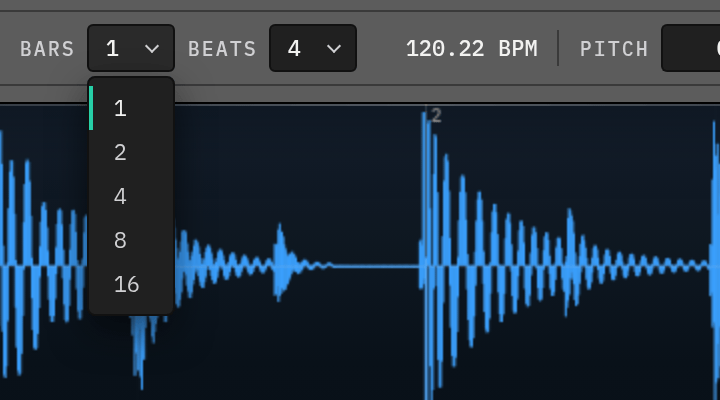
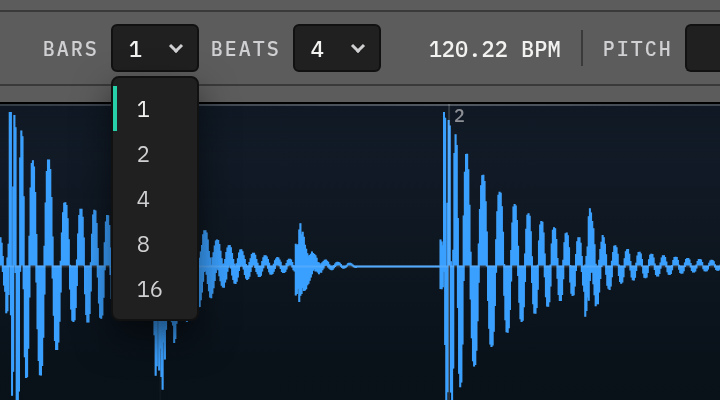
Release 1.2.0: new screenshots, README and version
- Version 1.2.0 in package.json, manifest.json and the editor panel.
- Retake every README screenshot with the Clear button, Loop region
  rendering and a stretch to 100 BPM.
- Audio outside the rendered range is drawn dimmed instead of flattened
  by the fade envelope, so excluded audio no longer looks deleted.
- README: macOS and Windows, Cancel on long renders.

diff --git a/src/webview/waveform.js b/src/webview/waveform.js
@@ -522,7 +522,7 @@ class WaveformCanvas {
     const startPeak = Math.floor(this.scrollX / pxPerPeak);
     const endPeak = Math.min(peakCount, Math.ceil((this.scrollX + width) / pxPerPeak));
 
-    // Faded (outside trim)
+    // Dimmed (outside the rendered range)
     ctx.globalAlpha = 0.55;
     ctx.strokeStyle = SCREEN.traceOutside;
     ctx.lineWidth = 1;
@@ -541,14 +541,14 @@ class WaveformCanvas {
     }
     ctx.stroke();
 
-    // Bright (inside trim)
+    // Bright (inside the rendered range: the loop while Loop is on, else the selection)
     ctx.globalAlpha = 1;
     ctx.strokeStyle = SCREEN.trace;
     ctx.beginPath();
     for (let i = startPeak; i < endPeak; i++) {
       const x = i * pxPerPeak - this.scrollX;
       const t = this._xToTime(x);
-      if (t < this.trimStart || t > this.trimEnd) continue;
+      if (t < this.renderStart || t > this.renderEnd) continue;
       const env = this._envelopeAt(t);
       const minVal = chPeaks[i * 2] * this.gainLinear * env;
       const maxVal = chPeaks[i * 2 + 1] * this.gainLinear * env;
@@ -633,7 +633,10 @@ class WaveformCanvas {
 
   // Combined fade envelope (fade-in × fade-out) at time t; 1 when no fades.
   // Applied to the drawn waveform amplitude so the taper is visible directly.
+  // Audio outside the rendered range is left as is (it is drawn dimmed), so
+  // nothing looks deleted that is only excluded.
   _envelopeAt(t) {
+    if (t < this.renderStart || t > this.renderEnd) return 1;
     let g = 1;
     if (this.fadeIn.len > 0) g *= this._fadeGainAt('in', t);
     if (this.fadeOut.len > 0) g *= this._fadeGainAt('out', t);

diff --git a/src/webview/index.html b/src/webview/index.html
@@ -687,12 +687,12 @@
   </div>
 
   <div id="controls">
-    <span id="logo" aria-label="Clip Tool v1.1.0">
+    <span id="logo" aria-label="Clip Tool v1.2.0">
       <!-- Kerf mark: kerf-audio brand pack, kerf-audio-mark-on-grey.svg -->
       <svg class="logo-mark" xmlns="http://www.w3.org/2000/svg" viewBox="0.00 0.00 258.19 340.00" aria-hidden="true"><g fill="#f2f2f0"><polygon points="61.35,69.02 0.00,122.71 0.00,251.37 61.35,190.01 61.35,69.02"/><polygon points="196.84,253.08 258.19,196.84 258.19,88.63 196.84,149.98 196.84,253.08"/><polygon points="61.35,196.84 5.11,253.08 0.00,258.19 0.00,340.00 194.43,145.57 258.19,81.81 258.19,69.16 258.19,0.00 61.35,196.84"/><polygon points="93.75,253.08 192.01,253.08 192.01,191.73 155.10,191.73 93.75,253.08"/></g></svg>
       <span class="logo-text">
         <span class="logo-word">CLIP TOOL</span>
-        <span id="version">v1.1.0</span>
+        <span id="version">v1.2.0</span>
       </span>
     </span>
     <div id="control-fields">

diff --git a/README.md b/README.md
@@ -142,7 +142,8 @@ Mouse:
 
 ## Install (no dev tools needed)
 
-> Requires Ableton Live 12 with Extensions support (currently the Live 12 beta).
+> Requires Ableton Live 12 with Extensions support (currently the Live 12 beta),
+> on macOS or Windows.
 
 1. Download **`clip-tool.ablx`** from the [Releases](../../releases) page.
 2. In Live, open **Preferences → Extensions**.
@@ -175,6 +176,8 @@ The original sample is left alone. The result lands in
   heaviest operations, and the longer the clip the longer the render. The
   progress bar climbs steadily through the render, so a moving bar (even a slow
   one) means it's working, not stuck. Larger pitch shifts take the longest.
+  Changed your mind? **Cancel** in the progress dialog stops the render and
+  leaves your Set as it was.
 - **Very long clips open without audio preview.** Above 128 MB of rendered audio
   (roughly 11 to 15 minutes of stereo, depending on Live's recording bit depth)
   the editor shows the waveform outline and a note saying so. Preview, sample
@@ -186,7 +189,8 @@ The original sample is left alone. The result lands in
 The header shows the filename and a readout of the detected key, sample rate,
 channels and length. Tempo, pitch and time-stretch controls sit just below it,
 with the detected
-tempo, Bars and Beats, pitch and grain settings, and the target BPM:
+tempo, Bars and Beats, pitch and grain settings, and the target BPM (here
+stretching a 120 BPM break to 100):
 
 ![Tempo, pitch and time-stretch controls](docs/screenshots/controls.png)
 
